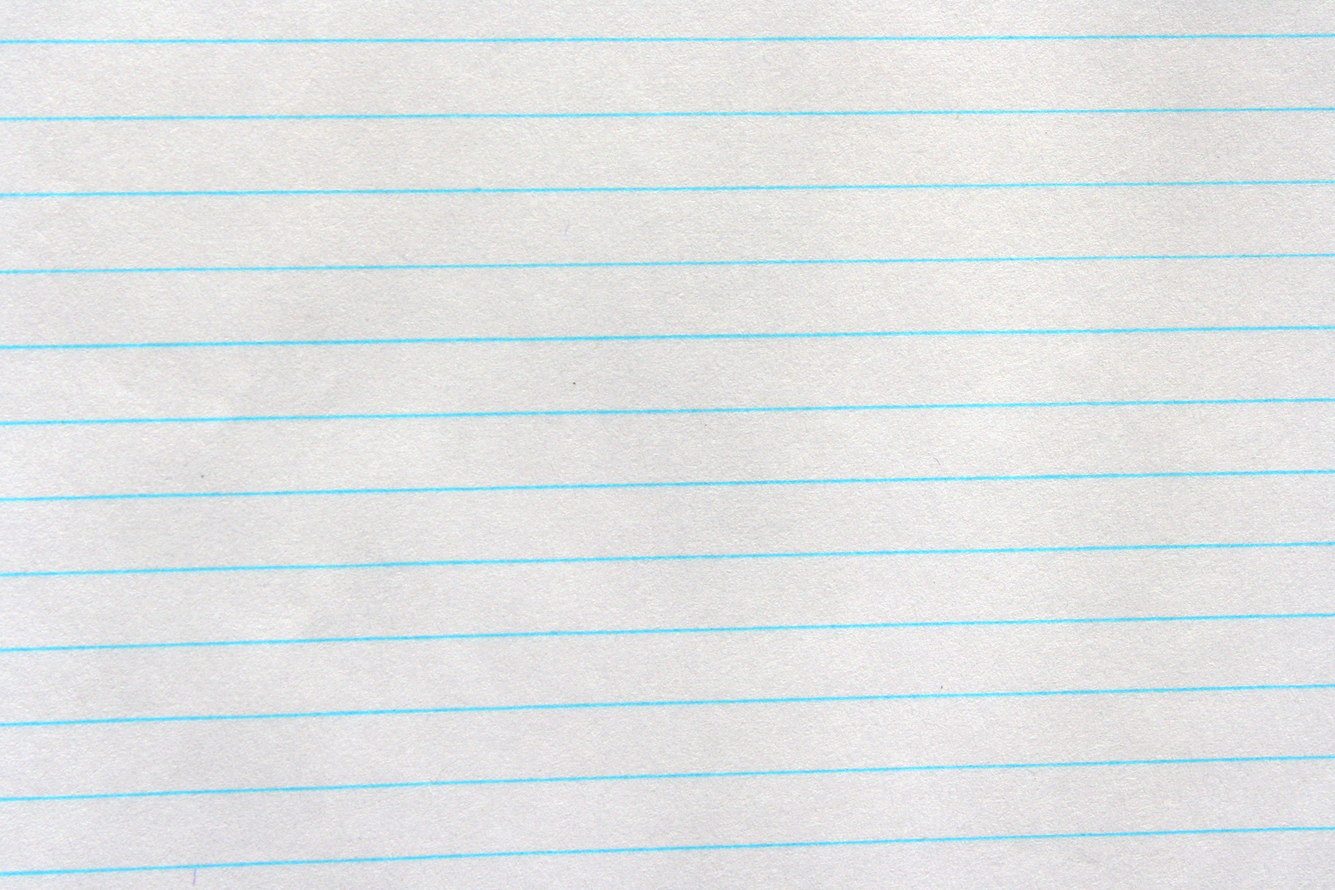
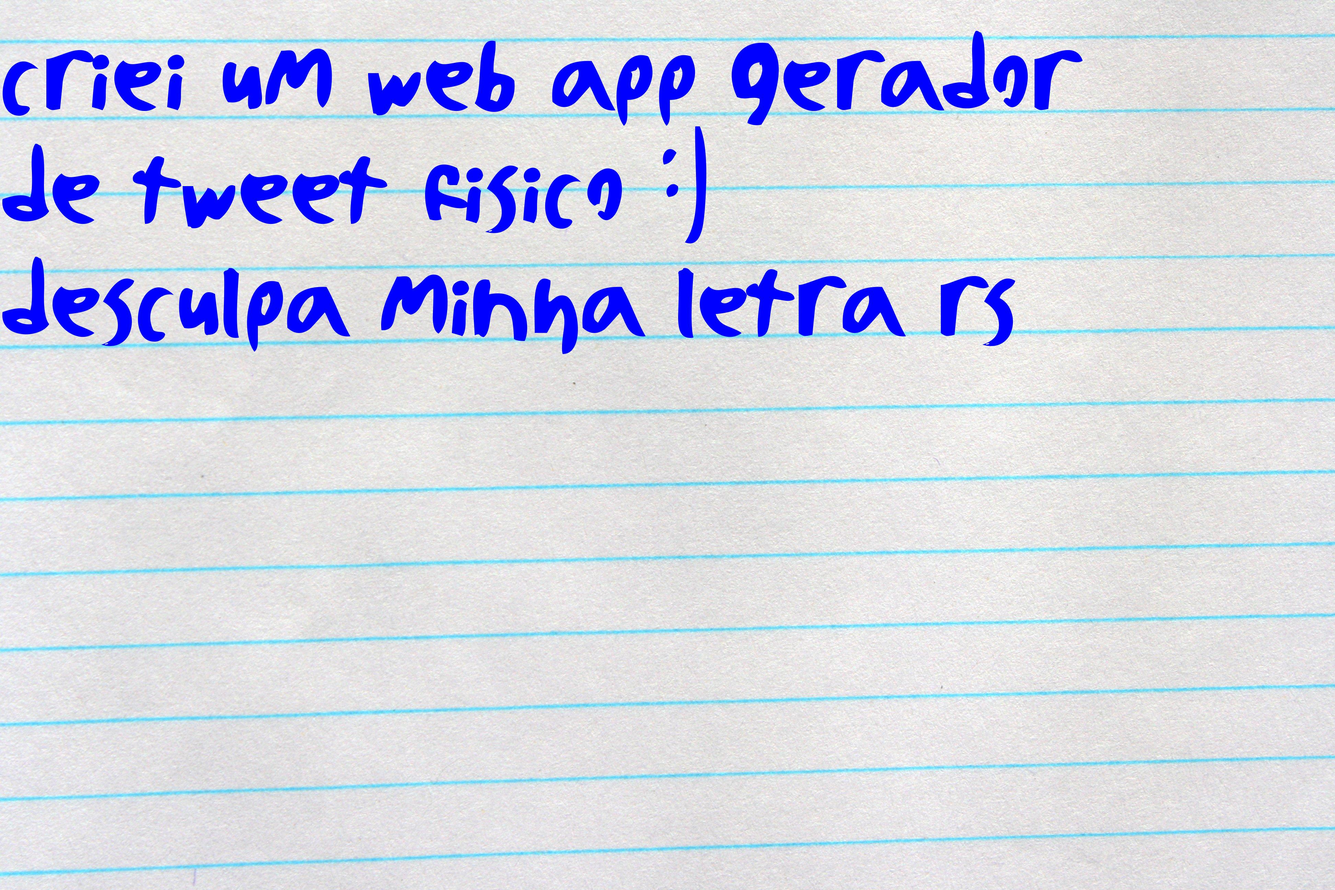
Documentando

Changed region(s): [[0.0, 0.0312, 0.8092, 0.4062], [0.0, 0.1562, 0.4668, 0.25], [0.0, 0.0312, 0.249, 0.125]]

diff --git a/README.md b/README.md
@@ -1,0 +1,11 @@
+## Gerador de Tweet Físico
+
+Esse projeto foi feito rapidamente utilizando streamlit, para mostrar o potencial de uso dessa ferramenta fantásica. 
+
+O streamlit permite que pessoas sem conhecimento prévio em desenvolvimento web crie aplicativos web simples. 
+
+Se você é um engenheiro, analista ou cientista de dados, não deixe de conhecer o streamlit para entregar seus projetinhos com muita facilidade! 
+
+:)
+
+![preview](preview.png)
